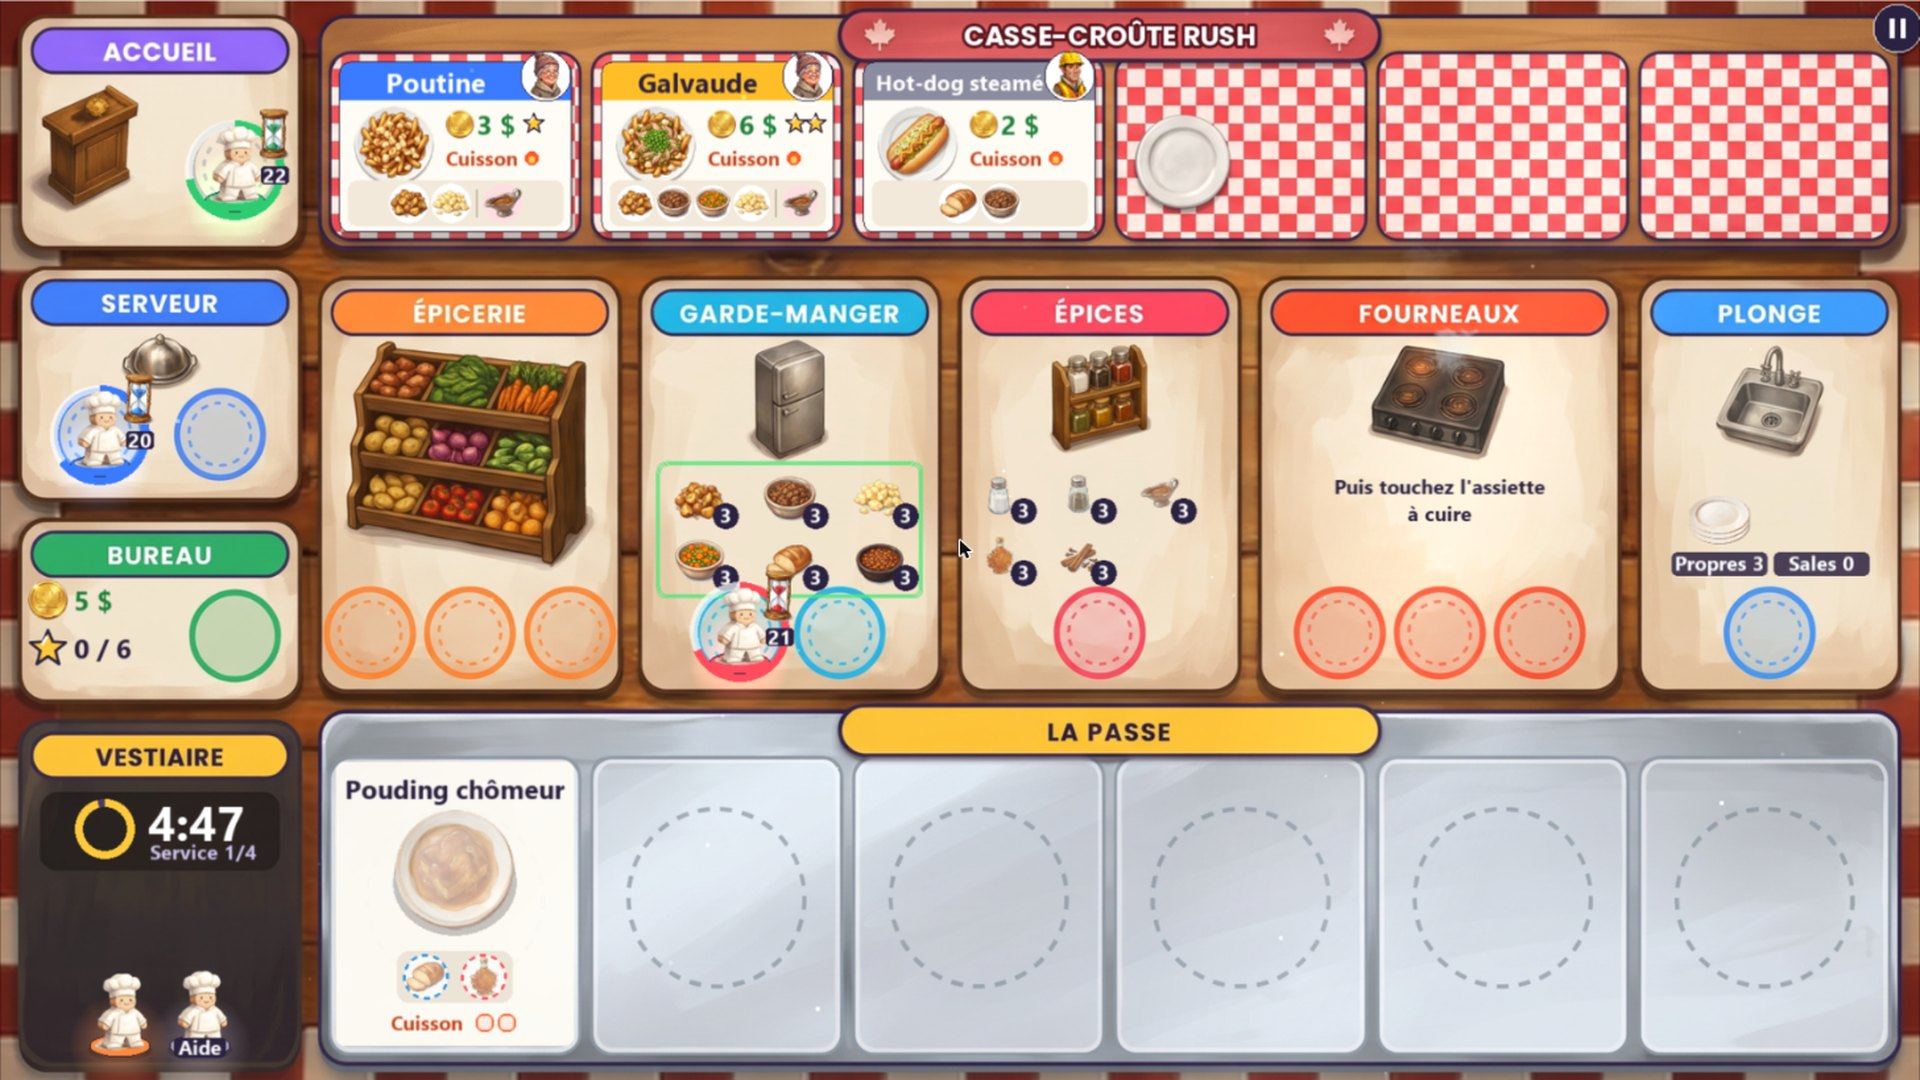
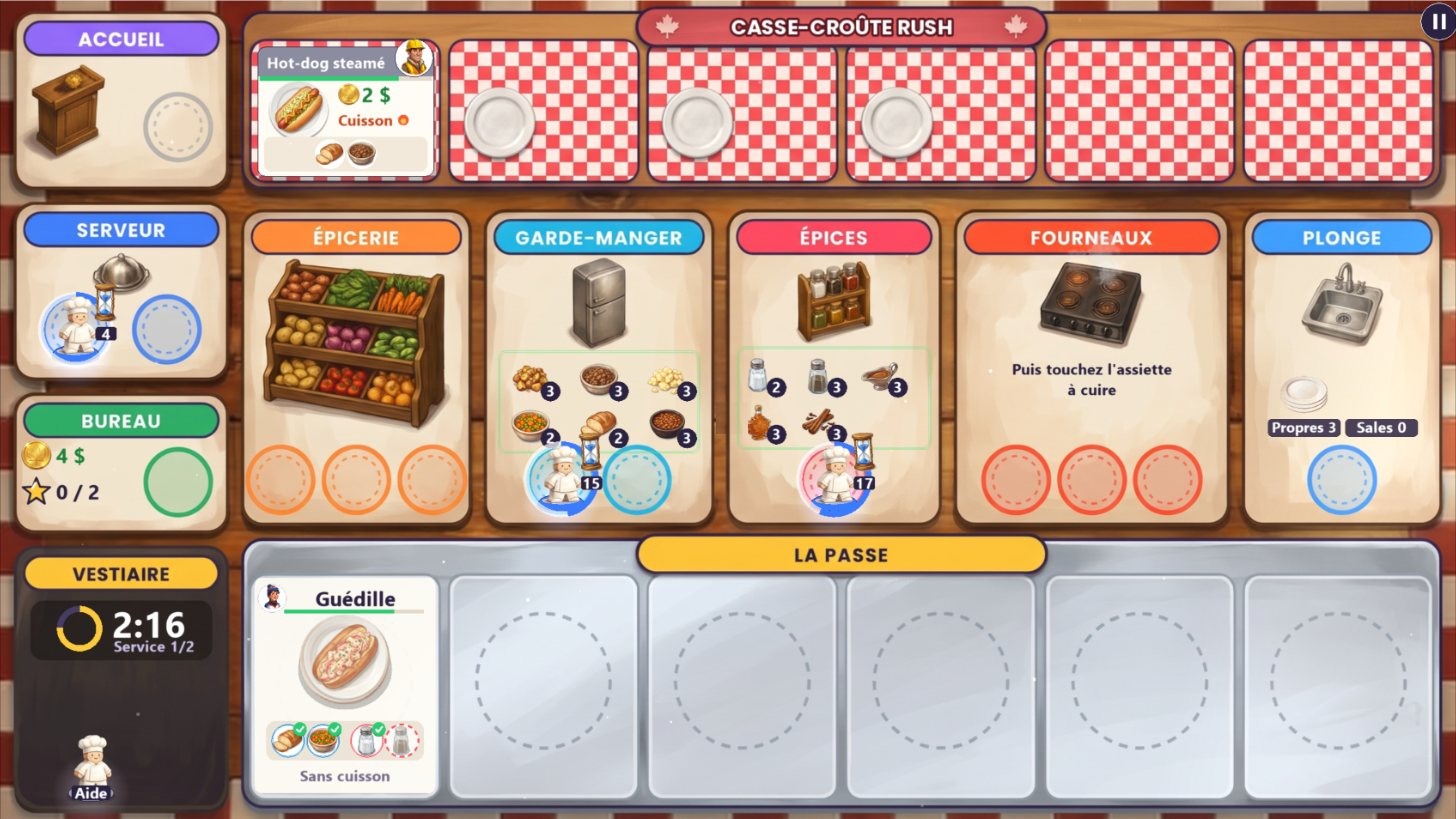
Mise a jour du site Casse-Croute Rush

diff --git a/index.html b/index.html
@@ -60,6 +60,11 @@ header{position:sticky;top:0;z-index:50;background:rgba(251,243,226,.86);backdro
 .news{display:grid;grid-template-columns:repeat(3,1fr);gap:26px}.news .card .ico img{width:56px;height:56px}
 .clients{display:block;max-width:720px;width:100%;margin:34px auto 0}
 @media (max-width:900px){.news{grid-template-columns:1fr}}
+.gallery{display:grid;grid-template-columns:repeat(3,1fr);gap:24px;margin:40px 0 10px}
+.gallery figure{margin:0}
+.gallery img{display:block;width:100%;height:auto;border:3px solid var(--ink);border-radius:18px;box-shadow:0 6px 0 var(--ink);background:#000}
+.gallery figcaption{margin-top:14px;text-align:center;font-weight:700}
+@media (max-width:900px){.gallery{grid-template-columns:1fr}}
 .hero p.lead{font-size:1.15rem;color:var(--ink-2);max-width:34em}
 .cta-row{display:flex;flex-wrap:wrap;gap:16px;margin:30px 0 26px}
 .facts{display:flex;flex-wrap:wrap;gap:10px}
@@ -183,7 +188,7 @@ footer a{color:#fff}
       <div class="facts"><span>👥 1-2 joueurs · 4 en ligne</span><span>🗺 Campagne de 8 soirées</span><span>⏱ 4 services de 4 min</span><span>🍽 12 plats québécois</span><span>🔊 Musique québécoise</span><span>🆓 Gratuit</span></div>
     </div>
     <div class="shot">
-      <div class="frame"><img src="img/jeu.jpg" alt="Le plateau de Casse-Croûte Rush avec les commandes, les postes de cuisine et la passe" width="1920" height="1080"></div>
+      <div class="frame"><img src="img/jeu.jpg?v=4" alt="Le plateau de Casse-Croûte Rush en plein service : commandes, cuisiniers aux postes et une guédille sur la passe" width="1456" height="819"></div>
       <img class="float f1" src="img/poutine.webp" alt="">
       <img class="float f2" src="img/tourtiere.webp" alt="">
       <img class="float f3" src="img/ico-sirop.webp" alt="">
@@ -225,6 +230,11 @@ footer a{color:#fff}
       <article class="card reveal"><div class="ico" style="background:#fff1c9"><img src="img/ico-parchemin.webp" alt=""></div><h3>Une campagne de 8 soirées</h3><p>De L'ouverture à La grande finale, en passant par la cabane à sucre et la tempête de neige : chaque soirée a ses plats, ses règles et jusqu'à 3 étoiles à gagner.</p></article>
       <article class="card reveal"><div class="ico" style="background:#dff3ff"><img src="img/ico-globe.webp" alt=""></div><h3>En ligne jusqu'à 4</h3><p>Un joueur crée la salle, les autres entrent son code à 4 chiffres. Chacun joue sur son appareil, navigateur ou Android, avec ses cuisiniers à sa couleur.</p></article>
       <article class="card reveal"><div class="ico" style="background:#ffe3dc"><img src="img/ico-fourneau.webp" alt=""></div><h3>Des améliorations au Bureau</h3><p>Grand fourneau, lave-vaisselle, terrasse, café offert… Six améliorations à acheter pendant la partie pour faire rouler la cuisine plus vite.</p></article>
+    </div>
+    <div class="gallery">
+      <figure class="reveal"><img src="img/capture-campagne.jpg" alt="L'écran de la campagne : 8 soirées à débloquer une après l'autre" width="1456" height="819" loading="lazy"><figcaption>La campagne : 8 soirées à débloquer</figcaption></figure>
+      <figure class="reveal"><img src="img/capture-soiree.jpg" alt="La fiche d'une soirée : plats, durée, patience des clients et objectif d'étoiles" width="1456" height="819" loading="lazy"><figcaption>Chaque soirée a ses plats et son objectif</figcaption></figure>
+      <figure class="reveal"><img src="img/capture-en-ligne.jpg" alt="La salle en ligne avec son code à 4 chiffres et trois joueurs" width="1456" height="819" loading="lazy"><figcaption>En ligne : un code, jusqu'à 4 joueurs</figcaption></figure>
     </div>
     <img class="clients reveal" src="img/clients.webp" alt="Les clients du casse-croûte : bûcheron, grand-mère, joueur de hockey, ouvrier, femme d'affaires et camionneur" width="960" height="160" loading="lazy">
   </div>
